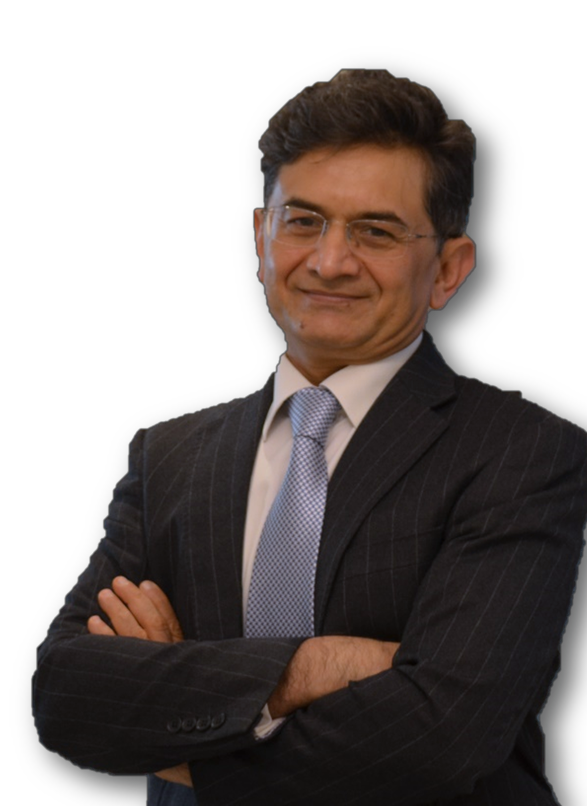
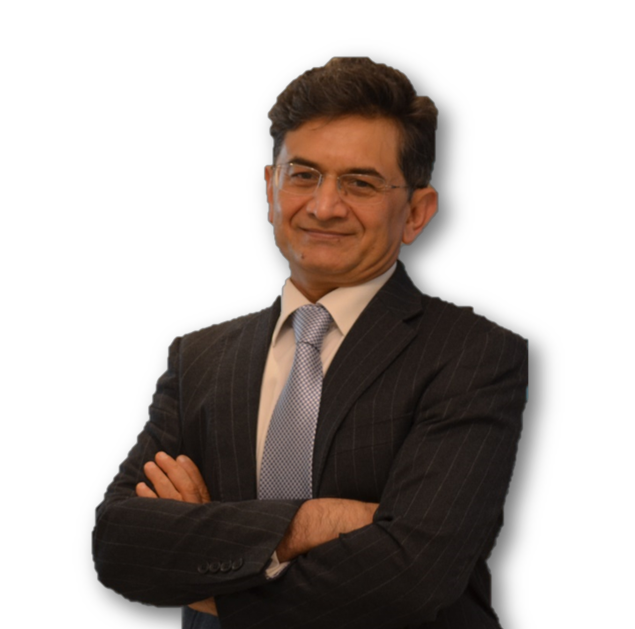
Horrible bug fix, but it works

diff --git a/StyleSheet/StyleDemo.css b/StyleSheet/StyleDemo.css
@@ -129,6 +129,7 @@ section.header {
   padding-left: 2em;
   background: var(--bannerGradient);
   color: white;
+  width: auto;
 }
 
 section.header h1{
@@ -185,7 +186,7 @@ h1 em {
 }
 
 #dad {
-  width: 35em;
+  width: 100%;
   height: 30em;
   padding-top: 0.4em;
   object-fit: contain;
@@ -200,21 +201,21 @@ h1 em {
 
 .social-media-buttons {
   display: flex;
-  justify-content: space-between;
   object-fit: contain;
+  padding-bottom: 3em;
 }
 
 .fa {
-  padding-top: 0.9em;
+  padding-top: 0.1em;
   font-size: 2em !important;
-  width: 2.9em;
+  padding-left: 0.5em;
+  letter-spacing: 2em;
   height: 2em;
-  text-align: center;
+  text-align: left;
   text-decoration: none;
   border-radius: 50%;
-  background-color: #dcdcdc;
-  color:#004a5c;
-  object-fit: contain;
+  background-color: #dcdcdc00;
+  color:#ffffff;
 }
 
 .fa:hover {
